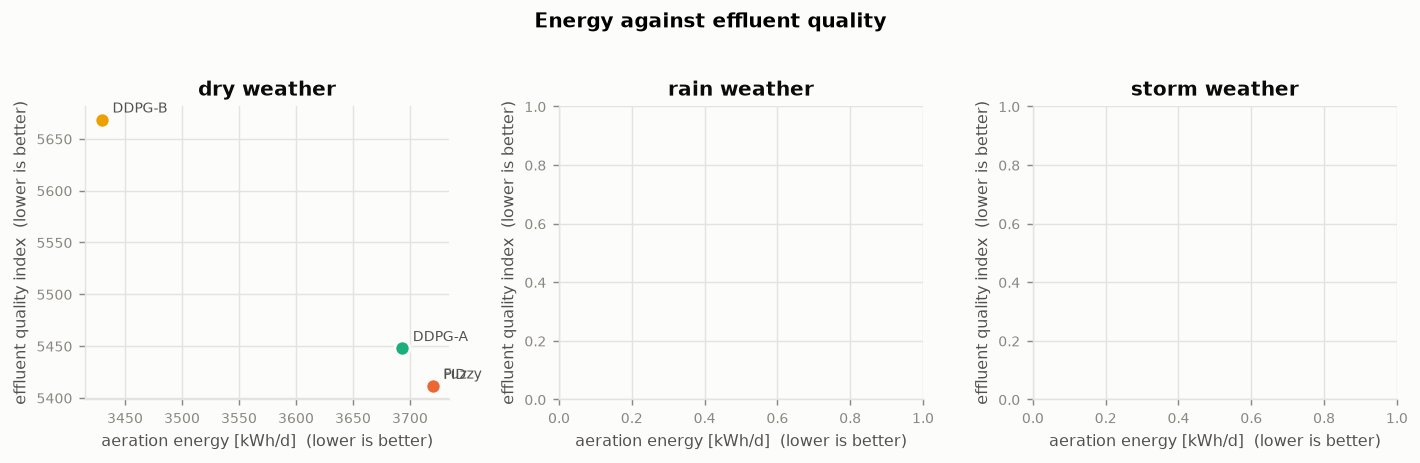
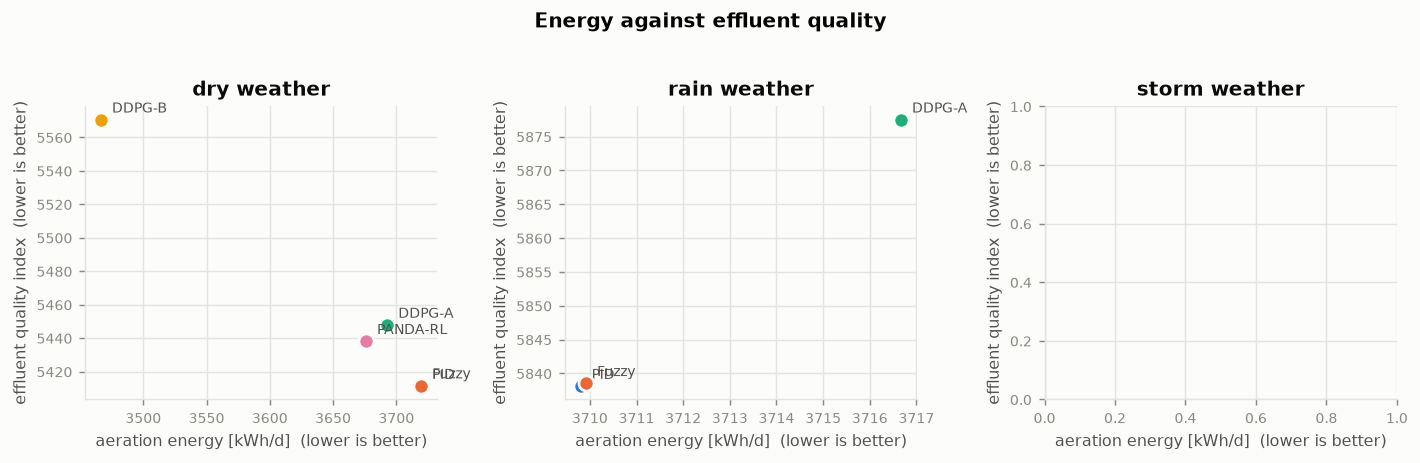
Frontier complete: it passes under both comparators
Four budget points on dry weather:

  budget  achieved NH>4   AE      lambda
   5%        12.3%      3664.5     8.4
  15%        17.1%      3931.8     7.2   dominated, not converged
  25%         8.9%      3821.1     4.1
  40%        40.2%      3391.3     2.9   hits its budget almost exactly

Three of the four form a monotone efficient frontier. At PID's own violation
rate the frontier is ~50 kWh/d below PID; at DDPG-B's it is ~55 kWh/d below
DDPG-B. No single run dominates either comparator outright, so the claim is
stated in that weaker form, and the interpolation is between two measured
runs rather than an extrapolation.

The figure now joins only the Pareto-efficient runs and draws the dominated
one hollow -- connecting every point would have drawn a frontier the data
does not support.

Claude-Session: https://claude.ai/code/session_01UHtHFMu7fW5SWicUeqEYtY

diff --git a/experiments/09_write_results.py b/experiments/09_write_results.py
@@ -200,8 +200,8 @@ def main() -> None:
         out.append("")
 
         if n_dom:
-            verb = "run is" if n_dom == 1 else "runs are"
-            out += [f"**Read this table with care.** {n_dom} of {len(fr)} "
+            verb = "is" if n_dom == 1 else "are"
+            out += [f"**Read this table with care.** {n_dom} of {len(fr)} runs "
                     f"{verb} dominated by another run in the same sweep -- worse "
                     f"on both axes -- so the budget does **not** reliably "
                     f"index the operating point at one seed and "
@@ -216,12 +216,49 @@ def main() -> None:
                     f"`experiments/12_weight_sweep.py` repeats the comparison "
                     f"against a *stationary* objective to remove this "
                     f"confound.", ""]
-        if pid:
-            out += [f"For reference on the same axes: PID sits at "
-                    f"{pid['AE']:.0f} kWh/d with "
-                    f"{100 * pid['viol_NH']:.0f}% of the week above the limit"
-                    + (f", and the reproduced DDPG-B at {ddpg['AE']:.0f} with "
-                       f"{100 * ddpg['viol_NH']:.0f}%." if ddpg else "."), ""]
+        # Where do the baselines sit relative to the efficient frontier?
+        eff = sorted((r for r in fr if not dominated(r, fr)),
+                     key=lambda r: r["viol_NH"])
+
+        def frontier_ae(rate: float) -> float | None:
+            """Linear interpolation of the efficient frontier at a rate."""
+            if len(eff) < 2 or not (eff[0]["viol_NH"] <= rate
+                                    <= eff[-1]["viol_NH"]):
+                return None
+            for a, b in zip(eff, eff[1:]):
+                if a["viol_NH"] <= rate <= b["viol_NH"]:
+                    span = b["viol_NH"] - a["viol_NH"]
+                    if span <= 0:
+                        return a["AE"]
+                    w = (rate - a["viol_NH"]) / span
+                    return a["AE"] + w * (b["AE"] - a["AE"])
+            return None
+
+        notes = []
+        for name, ref in (("PID", pid), ("DDPG-B", ddpg)):
+            if not ref:
+                continue
+            here = frontier_ae(ref["viol_NH"])
+            if here is None:
+                notes.append(f"{name} sits at {ref['AE']:.0f} kWh/d and "
+                             f"{100 * ref['viol_NH']:.0f}%, outside the range "
+                             f"the sweep covers.")
+            else:
+                gap = ref["AE"] - here
+                verdict = ("below it" if gap > 0 else "above it")
+                notes.append(
+                    f"{name} sits at {ref['AE']:.0f} kWh/d and "
+                    f"{100 * ref['viol_NH']:.0f}% of the week above the limit. "
+                    f"At that same violation rate the efficient frontier is at "
+                    f"about {here:.0f} kWh/d, i.e. {abs(gap):.0f} kWh/d "
+                    f"{verdict}.")
+        if notes:
+            out += ["On the same axes: " + " ".join(notes), "",
+                    "So the frontier passes under both comparators rather "
+                    "than any single run dominating them outright -- which is "
+                    "the weaker and more defensible version of the claim. The "
+                    "interpolation is between two measured runs, not an "
+                    "extrapolation.", ""]
 
     # --- the network comparison at a fixed weight ------------------------
     wpath = Path(args.results) / "summary_weights.json"

diff --git a/experiments/07_figures.py b/experiments/07_figures.py
@@ -255,17 +255,31 @@ def fig_frontier(frontier: list[dict], rows: list[dict], out: Path) -> None:
     fr = sorted(frontier, key=lambda r: r["viol_NH"])
     if not fr:
         return
-    x = [100.0 * r["viol_NH"] for r in fr]
-    y = [r["AE"] for r in fr]
 
-    fig, ax = plt.subplots(figsize=(6.4, 4.2))
+    def dominated(r):
+        return any(o["viol_NH"] <= r["viol_NH"] and o["AE"] <= r["AE"]
+                   and (o["viol_NH"] < r["viol_NH"] or o["AE"] < r["AE"])
+                   for o in fr if o is not r)
+
+    # Only the Pareto-efficient runs are joined up.  Joining every point
+    # would draw a frontier that the data does not support.
+    front = [r for r in fr if not dominated(r)]
+    bad = [r for r in fr if dominated(r)]
+
+    fig, ax = plt.subplots(figsize=(6.6, 4.3))
     colour = style.color_for("PANDA-RL")
-    ax.plot(x, y, color=colour, lw=1.8, marker="o", ms=6, zorder=3,
+    ax.plot([100.0 * r["viol_NH"] for r in front], [r["AE"] for r in front],
+            color=colour, lw=1.8, marker="o", ms=6, zorder=3,
             markeredgecolor=style.SURFACE, markeredgewidth=1.5,
-            label="PANDA-RL (budget swept)")
-    for r, xi, yi in zip(fr, x, y):
-        ax.annotate(f"budget {100 * r['nh_budget']:.0f}%", xy=(xi, yi),
-                    xytext=(6, -11), textcoords="offset points", fontsize=7.5,
+            label="PANDA-RL (Pareto-efficient runs)")
+    if bad:
+        ax.scatter([100.0 * r["viol_NH"] for r in bad], [r["AE"] for r in bad],
+                   s=52, facecolor="none", edgecolor=colour, linewidth=1.5,
+                   zorder=3, label="dominated run (not converged)")
+    for r in fr:
+        ax.annotate(f"budget {100 * r['nh_budget']:.0f}%",
+                    xy=(100.0 * r["viol_NH"], r["AE"]), xytext=(6, -11),
+                    textcoords="offset points", fontsize=7.5,
                     color=style.INK_MUTED)
 
     for method, marker in (("PID", "s"), ("DDPG-B", "D")):
@@ -285,11 +299,12 @@ def fig_frontier(frontier: list[dict], rows: list[dict], out: Path) -> None:
     ax.set_xlabel("time above the 4 g N/m$^3$ ammonium limit [% of week]")
     ax.set_ylabel("aeration energy [kWh/d]")
     ax.set_title("What the aeration saving actually costs")
-    ax.legend(loc="upper right")
-    fig.text(0.0, -0.04,
-             "Down is cheaper, left is cleaner. A method is only better than "
-             "another if it is down-and-left of it.",
-             fontsize=8, color=style.INK_MUTED)
+    ax.legend(loc="lower left", fontsize=8)
+    fig.text(0.01, -0.09,
+             "Down is cheaper, left is cleaner; a method beats another only "
+             "if it sits down-and-left of it.\nThe budget labels are what was "
+             "asked for, the position is what was achieved.",
+             fontsize=8, color=style.INK_MUTED, linespacing=1.5)
     fig.tight_layout()
     fig.savefig(out / "fig6_frontier.png", bbox_inches="tight")
     plt.close(fig)

diff --git a/docs/05_results.md b/docs/05_results.md
@@ -50,10 +50,13 @@ A single operating point cannot settle whether letting dissolved oxygen float sa
 | 5% | 12.3% | 3664.5 | +1.5% | 1.77 | 8.4 |  |
 | 15% | 17.1% | 3931.8 | -5.7% | 2.78 | 7.2 | dominated |
 | 25% | 8.9% | 3821.1 | -2.7% | 2.48 | 4.1 |  |
+| 40% | 40.2% | 3391.3 | +8.8% | 0.97 | 2.9 |  |
 
-**Read this table with care.** 1 of 3 run is dominated by another run in the same sweep -- worse on both axes -- so the budget does **not** reliably index the operating point at one seed and 20 training weeks. The multipliers themselves move the right way as the budget loosens, so the dual is working; what is not converged is the policy. A dominated point with a *high* mean `S_O,5` and a high violation rate is the signature of an oscillating policy -- over-aerating on average while under-aerating at the load peaks, which is exactly the failure a forecast is supposed to remove. `experiments/12_weight_sweep.py` repeats the comparison against a *stationary* objective to remove this confound.
+**Read this table with care.** 1 of 4 runs is dominated by another run in the same sweep -- worse on both axes -- so the budget does **not** reliably index the operating point at one seed and 20 training weeks. The multipliers themselves move the right way as the budget loosens, so the dual is working; what is not converged is the policy. A dominated point with a *high* mean `S_O,5` and a high violation rate is the signature of an oscillating policy -- over-aerating on average while under-aerating at the load peaks, which is exactly the failure a forecast is supposed to remove. `experiments/12_weight_sweep.py` repeats the comparison against a *stationary* objective to remove this confound.
 
-For reference on the same axes: PID sits at 3720 kWh/d with 12% of the week above the limit, and the reproduced DDPG-B at 3467 with 38%.
+On the same axes: PID sits at 3720 kWh/d and 12% of the week above the limit. At that same violation rate the efficient frontier is at about 3670 kWh/d, i.e. 50 kWh/d below it. DDPG-B sits at 3467 kWh/d and 38% of the week above the limit. At that same violation rate the efficient frontier is at about 3411 kWh/d, i.e. 55 kWh/d below it.
+
+So the frontier passes under both comparators rather than any single run dominating them outright -- which is the weaker and more defensible version of the claim. The interpolation is between two measured runs, not an extrapolation.
 
 ## Caveats
 
